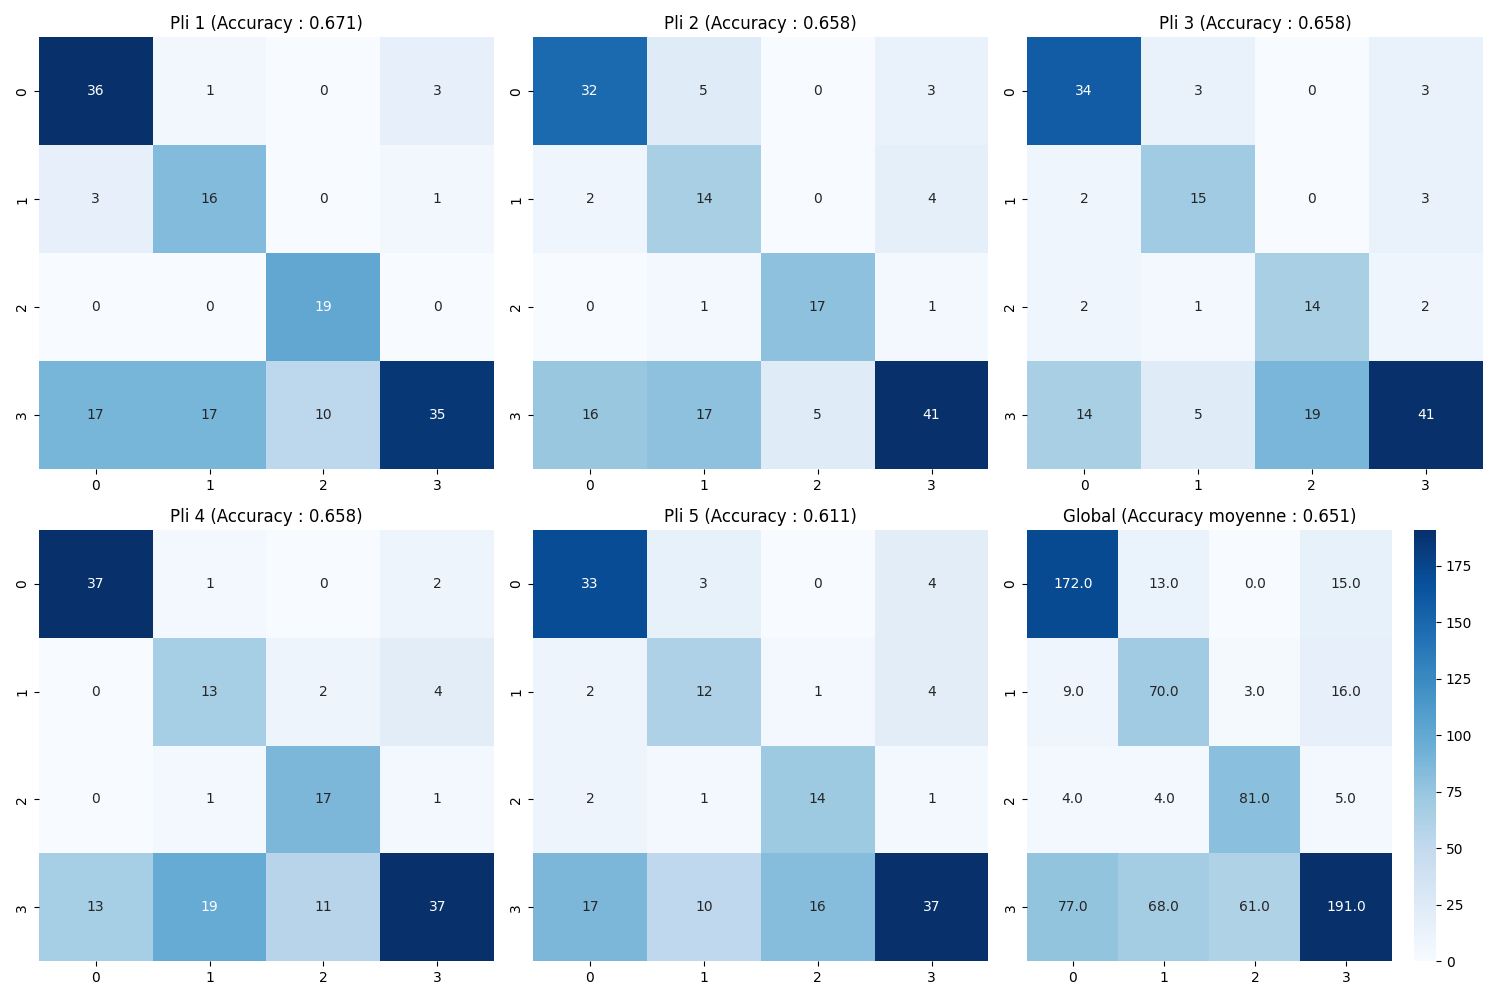
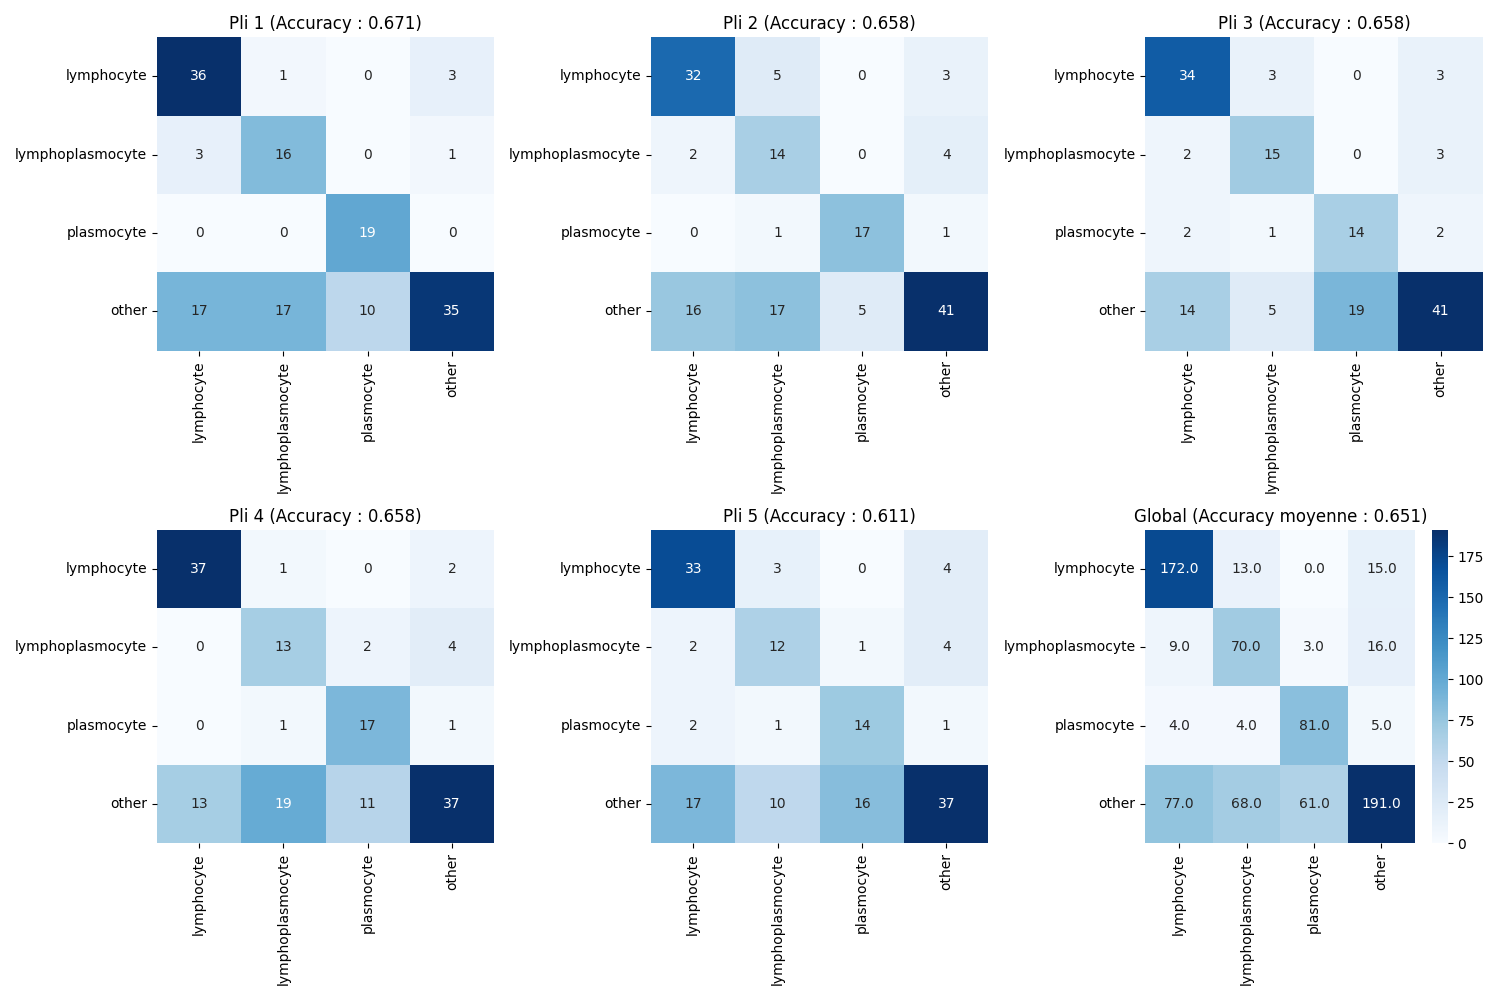
Fix KNN and logistic regression self-training scripts + Results (k=1 ; k=5 ; k=28 and logistic regression)

diff --git a/knn_self.py b/knn_self.py
@@ -19,6 +19,7 @@ def load_and_scale_data():
 
     X_labeled = labeled_data['X']
     y_labeled = labeled_data['y']
+    class_names = labeled_data['class_names']
     X_unlabeled = unlabeled_data['X_unlabeled']
 
     # Découper les données étiquetées en ensembles d'entraînement et de test
@@ -32,7 +33,7 @@ def load_and_scale_data():
     X_test = scaler.transform(X_test)
     X_unlabeled = scaler.transform(X_unlabeled)
 
-    return X_train, X_test, y_train, y_test, X_unlabeled
+    return X_train, X_test, y_train, y_test, X_unlabeled, class_names
 
 
 def iterative_self_training(X_labeled, y_labeled, X_unlabeled, n_neighbors, confidence_threshold=0.9, max_iterations=3, min_samples_per_class=10):
@@ -82,7 +83,7 @@ def iterative_self_training(X_labeled, y_labeled, X_unlabeled, n_neighbors, conf
     return knn
 
 
-def cross_validate_self_training(X_labeled, y_labeled, X_unlabeled, n_splits=5, n_neighbors=5):
+def cross_validate_self_training(X_labeled, y_labeled, X_unlabeled, n_splits=5, n_neighbors=28):
     """Effectuer une validation croisée sur les données étiquetées de base après un self-training sur les données étiquetées et non étiquetées."""
     # Faire le self-training avant la validation croisée
     model = iterative_self_training(
@@ -125,7 +126,7 @@ def cross_validate_self_training(X_labeled, y_labeled, X_unlabeled, n_splits=5, 
     return results, models
 
 
-def visualize_results(results, n_classes, n_neighbors):
+def visualize_results(results, n_classes, n_neighbors, class_names):
     """Visualiser les matrices de confusion et les précisions."""
     fig, axes = plt.subplots(2, 3, figsize=(15, 10))
     axes = axes.flatten()
@@ -134,14 +135,14 @@ def visualize_results(results, n_classes, n_neighbors):
     global_matrix = np.zeros((n_classes, n_classes))
     for i, result in enumerate(results):
         if i < 5:  # Tracer les 5 premiers plis seulement
-            sns.heatmap(result['conf_matrix'], annot=True, fmt='d',
-                        cmap='Blues', ax=axes[i], cbar=False)
+            sns.heatmap(result['conf_matrix'], annot=True, fmt='d', cmap='Blues',
+                        xticklabels=class_names, yticklabels=class_names, ax=axes[i], cbar=False)
             axes[i].set_title(f"Pli {i + 1} (Accuracy : {result['accuracy']:.3f})")
         global_matrix += result['conf_matrix']
 
     # Tracer la matrice globale
     sns.heatmap(global_matrix, annot=True, fmt='.1f', cmap='Blues',
-                ax=axes[-1], cbar=True)
+                xticklabels=class_names, yticklabels=class_names, ax=axes[-1], cbar=True)
     axes[-1].set_title(f"Global (Accuracy moyenne : {np.mean([r['accuracy'] for r in results]):.3f})")
 
     plt.tight_layout()
@@ -149,7 +150,7 @@ def visualize_results(results, n_classes, n_neighbors):
     plt.close()
 
 
-def evaluate_final_performance(y_test, y_pred, n_neighbors):
+def evaluate_final_performance(y_test, y_pred, n_neighbors, class_names):
     """Évaluer la performance finale avec plusieurs métriques."""
     print("\nPerformance finale sur le jeu de test :")
     print("-" * 50)
@@ -159,7 +160,7 @@ def evaluate_final_performance(y_test, y_pred, n_neighbors):
     print("\nMatrice de confusion :")
     conf_mat = confusion_matrix(y_test, y_pred)
     plt.figure(figsize=(10, 8))
-    sns.heatmap(conf_mat, annot=True, fmt='d', cmap='Blues')
+    sns.heatmap(conf_mat, annot=True, fmt='d', cmap='Blues', xticklabels=class_names, yticklabels=class_names)
     plt.title('Matrice de confusion - Jeu de test')
     plt.savefig(f'test_confusion_matrix_knn_k={n_neighbors}_self.png')
     plt.close()
@@ -167,11 +168,13 @@ def evaluate_final_performance(y_test, y_pred, n_neighbors):
 
 
 # Exécution principale
-n_neighbors = 5
-X_train, X_test, y_train, y_test, X_unlabeled = load_and_scale_data()
+n_neighbors = 28
+X_train, X_test, y_train, y_test, X_unlabeled, class_names = load_and_scale_data()
 
 # Validation croisée sur les données d'entraînement
 results, models = cross_validate_self_training(X_train, y_train, X_unlabeled)
+
+visualize_results(results, len(np.unique(y_train)), n_neighbors, class_names)
 
 final_model = models[-1]  # Choisir le dernier modèle cloné
 
@@ -179,4 +182,4 @@ final_model = models[-1]  # Choisir le dernier modèle cloné
 y_pred = final_model.predict(X_test)
 
 # Évaluation finale sur le jeu de test
-evaluate_final_performance(y_test, y_pred, n_neighbors)
+evaluate_final_performance(y_test, y_pred, n_neighbors, class_names)

diff --git a/logistic_regression_self.py b/logistic_regression_self.py
@@ -19,6 +19,7 @@ def load_and_scale_data():
 
     X_labeled = labeled_data['X']
     y_labeled = labeled_data['y']
+    class_names = labeled_data['class_names']
     X_unlabeled = unlabeled_data['X_unlabeled']
 
     # Découper les données étiquetées en ensembles d'entraînement et de test
@@ -32,7 +33,7 @@ def load_and_scale_data():
     X_test = scaler.transform(X_test)
     X_unlabeled = scaler.transform(X_unlabeled)
 
-    return X_train, X_test, y_train, y_test, X_unlabeled
+    return X_train, X_test, y_train, y_test, X_unlabeled, class_names
 
 
 def iterative_self_training(X_labeled, y_labeled, X_unlabeled, confidence_threshold=0.8, max_iterations=3, min_samples_per_class=10):
@@ -125,7 +126,7 @@ def cross_validate_self_training(X_labeled, y_labeled, X_unlabeled, n_splits=5):
     return results, models
 
 
-def visualize_results(results, n_classes):
+def visualize_results(results, n_classes, class_names):
     """Visualiser les matrices de confusion et les précisions."""
     fig, axes = plt.subplots(2, 3, figsize=(15, 10))
     axes = axes.flatten()
@@ -134,13 +135,13 @@ def visualize_results(results, n_classes):
     global_matrix = np.zeros((n_classes, n_classes))
     for i, result in enumerate(results):
         if i < 5:  # Tracer les 5 premiers plis seulement
-            sns.heatmap(result['conf_matrix'], annot=True, fmt='d',
-                        cmap='Blues', ax=axes[i], cbar=False)
+            sns.heatmap(result['conf_matrix'], annot=True, fmt='d', cmap='Blues',
+                        xticklabels=class_names, yticklabels=class_names, ax=axes[i], cbar=False)
             axes[i].set_title(f"Pli {i + 1} (Accuracy : {result['accuracy']:.3f})")
         global_matrix += result['conf_matrix']
 
     # Tracer la matrice globale
-    sns.heatmap(global_matrix, annot=True, fmt='.1f', cmap='Blues',
+    sns.heatmap(global_matrix, annot=True, fmt='.1f', cmap='Blues', xticklabels=class_names, yticklabels=class_names,
                 ax=axes[-1], cbar=True)
     axes[-1].set_title(f"Global (Accuracy moyenne : {np.mean([r['accuracy'] for r in results]):.3f})")
 
@@ -149,7 +150,7 @@ def visualize_results(results, n_classes):
     plt.close()
 
 
-def evaluate_final_performance(y_test, y_pred):
+def evaluate_final_performance(y_test, y_pred, class_names):
     """Évaluer la performance finale avec plusieurs métriques."""
     print("\nPerformance finale sur le jeu de test :")
     print("-" * 50)
@@ -159,7 +160,7 @@ def evaluate_final_performance(y_test, y_pred):
     print("\nMatrice de confusion :")
     conf_mat = confusion_matrix(y_test, y_pred)
     plt.figure(figsize=(10, 8))
-    sns.heatmap(conf_mat, annot=True, fmt='d', cmap='Blues')
+    sns.heatmap(conf_mat, annot=True, fmt='d', cmap='Blues', xticklabels=class_names, yticklabels=class_names,)
     plt.title('Matrice de confusion - Jeu de test')
     plt.savefig('test_confusion_matrix_logistic_self.png')
     plt.close()
@@ -168,10 +169,11 @@ def evaluate_final_performance(y_test, y_pred):
 
 # Exécution principale
 n_neighbors = 5
-X_train, X_test, y_train, y_test, X_unlabeled = load_and_scale_data()
-
+X_train, X_test, y_train, y_test, X_unlabeled, class_names = load_and_scale_data()
 # Validation croisée sur les données d'entraînement
 results, models = cross_validate_self_training(X_train, y_train, X_unlabeled)
+
+visualize_results(results, len(np.unique(y_train)), class_names)
 
 # Sélectionner le dernier modèle cloné
 final_model = models[-1]
@@ -180,4 +182,4 @@ final_model = models[-1]
 y_pred = final_model.predict(X_test)
 
 # Évaluation finale sur le jeu de test
-evaluate_final_performance(y_test, y_pred)
+evaluate_final_performance(y_test, y_pred, class_names)
